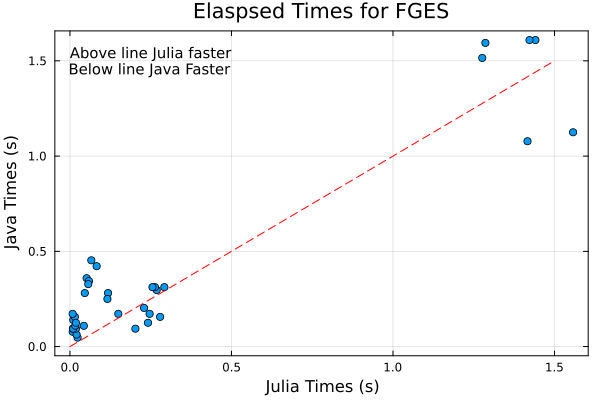
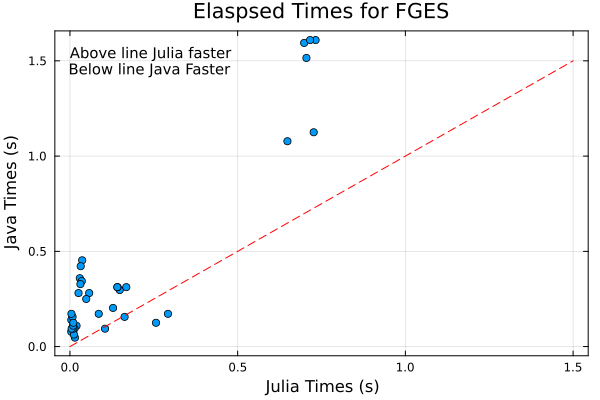
Two loops is better than one

diff --git a/README.md b/README.md
@@ -1,3 +1,9 @@
 # GreedyEquivalenceSearch
 
 [![Build Status](https://github.com/Robert Gregg/GreedyEquivalenceSearch.jl/actions/workflows/CI.yml/badge.svg?branch=master)](https://github.com/Robert Gregg/GreedyEquivalenceSearch.jl/actions/workflows/CI.yml?query=branch%3Amaster)
+
+
+# Implementation Notes
+
+- cholesky is *slightly* faster and uses half the allocations
+- Checking for semi-directed paths is the bottleneck